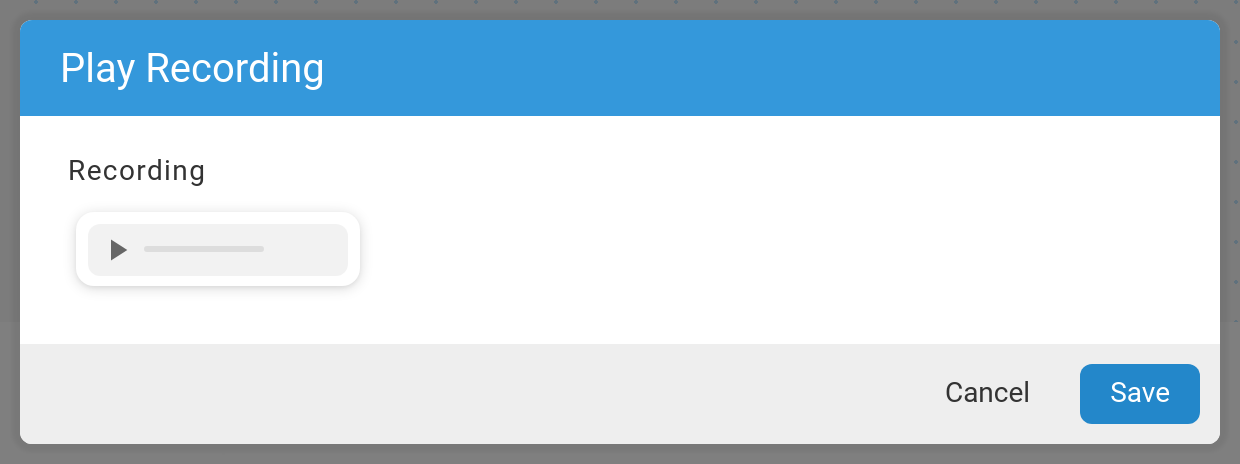
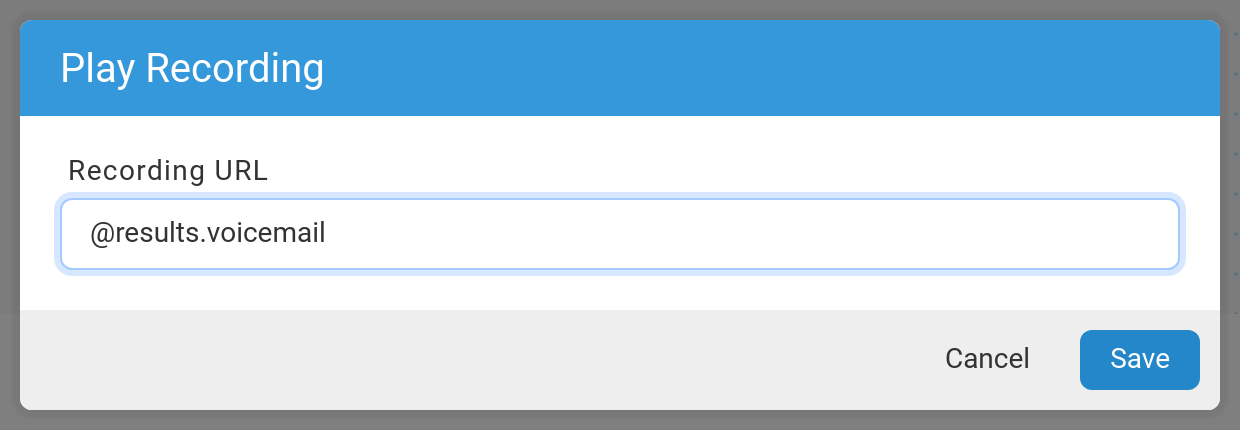
Use text input with expression completion for play_audio and prevent horizontal scroll in dialogs

diff --git a/src/flow/actions/play_audio.ts b/src/flow/actions/play_audio.ts
@@ -21,10 +21,10 @@ export const play_audio: ActionConfig = {
   },
   form: {
     audio_url: {
-      type: 'media',
-      label: 'Recording',
+      type: 'text',
+      label: 'Recording URL',
       required: true,
-      accept: 'audio/*'
+      evaluated: true
     }
   },
   layout: ['audio_url'],

diff --git a/src/layout/Dialog.ts b/src/layout/Dialog.ts
@@ -111,6 +111,7 @@ export class Dialog extends ResizeElement {
       .dialog-body {
         background: #fff;
         overflow-y: auto;
+        overflow-x: hidden;
         flex-grow: 1;
       }
 
